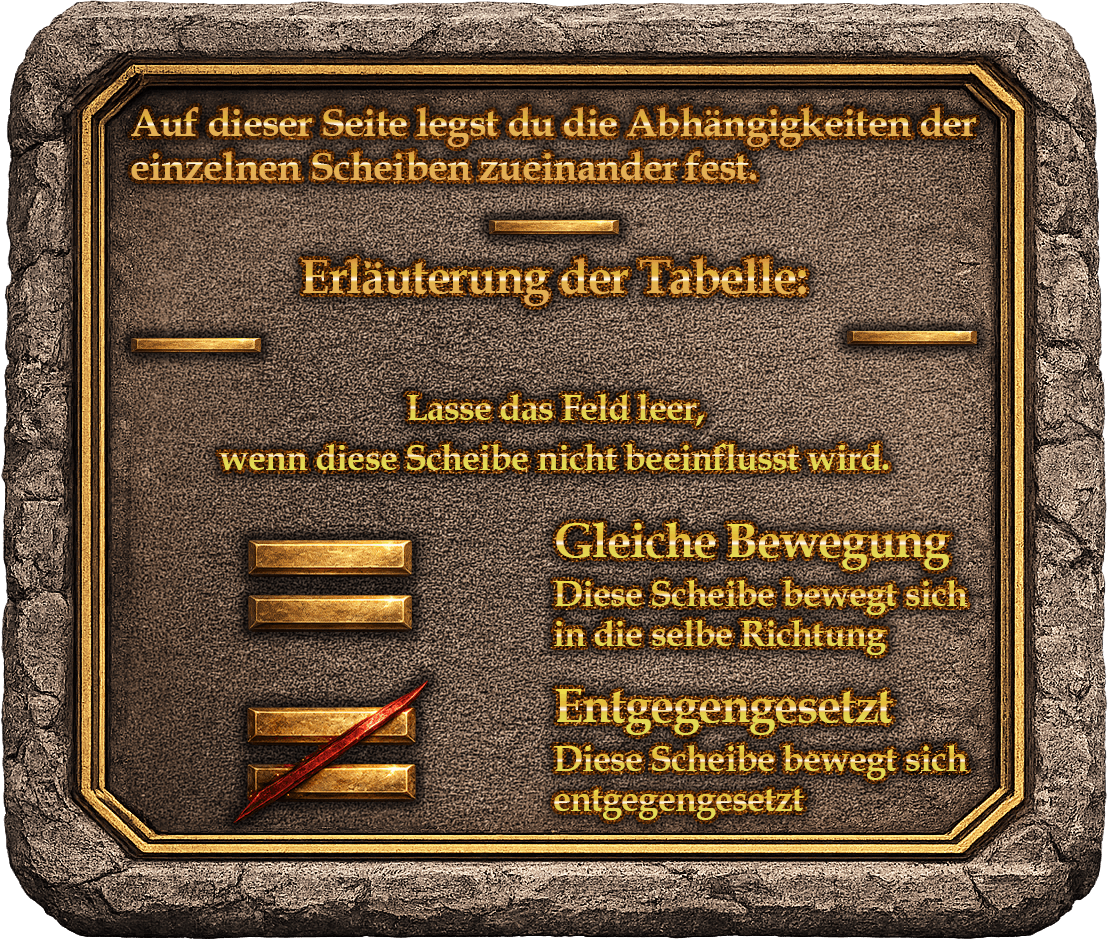
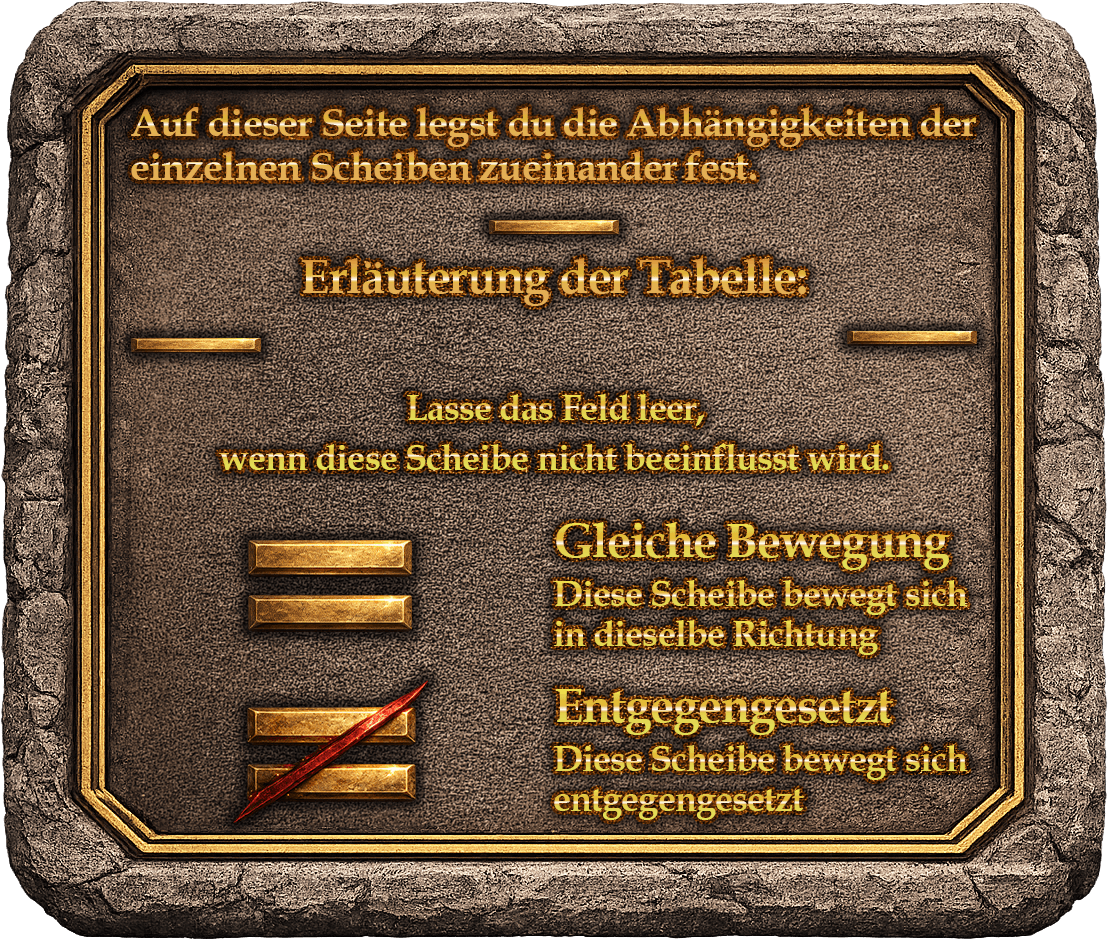
Add files via upload

Changed region(s): [[0.583, 0.6479, 0.8285, 0.7096]]

diff --git a/index.html b/index.html
@@ -70,7 +70,7 @@ body,select,option,span,label,div,p,td,th{color:#ddd;}
 .minus{box-shadow:0 0 12px rgba(255,80,80,.5)}
 
 
-.stepCard{border:1px solid #6a4a22;background:linear-gradient(#222831,#1a1f25);padding:16px;border-radius:10px;box-shadow:0 0 14px rgba(255,180,92,.25);margin-bottom:12px}
+.stepCard{border:none;background:transparent;padding:8px;border-radius:10px;box-shadow:none;margin-bottom:12px}
 .hintPolish{background:linear-gradient(#1b2027,#15191e)!important;box-shadow:0 0 12px rgba(255,180,92,.15)}
 
 
@@ -524,7 +524,7 @@ text-shadow:0 0 12px rgba(255,180,92,.35);
 
 
 .step-slider-img{
-  width:90px;
+  width:135px;
   height:auto;
   display:block;
   margin:0 auto 14px auto;
@@ -602,6 +602,15 @@ drop-shadow(0 0 24px rgba(255,180,92,.45));
 .positionStoneReadOnly:hover{
     transform:none !important;
     opacity:inherit !important;
+}
+
+@keyframes stepPulse{
+  0%{transform:scale(1);filter:drop-shadow(0 0 12px rgba(255,180,92,.65)) drop-shadow(0 0 24px rgba(255,180,92,.35));}
+  50%{transform:scale(1.08);filter:drop-shadow(0 0 20px rgba(255,180,92,.95)) drop-shadow(0 0 40px rgba(255,180,92,.60));}
+  100%{transform:scale(1);filter:drop-shadow(0 0 12px rgba(255,180,92,.65)) drop-shadow(0 0 24px rgba(255,180,92,.35));}
+}
+.stepPulse{
+  animation:stepPulse 1.8s ease-in-out infinite;
 }
 
 </style>
@@ -695,22 +704,18 @@ drop-shadow(0 0 24px rgba(255,180,92,.45));
          alt="Schieber-Abhängigkeiten"
          class="title-board">
 </div>
-<p>Wenn ein Schieber (Zeile) bewegt wird,<br>legt die Matrix fest, wie sich die anderen Schieber (Spalten) verhalten.</p>
-
-<div class="panel" style="margin:10px 0">
-<b>⚪ Keine Verbindung</b><br>Der andere Schieber bleibt unbeeinflusst.<br><br>
-<b>🟢 Gleiche Bewegung</b><br>Der andere Schieber bewegt sich in dieselbe Richtung.<br><br>
-<b>🔴 Entgegengesetzte Bewegung</b><br>Der andere Schieber bewegt sich in die entgegengesetzte Richtung.
+<div style="text-align:center;margin:10px 0 18px 0;">
+<img src="Matrix-Info-1.png"
+     alt="Matrix Erklärung"
+     style="width:70%;max-width:770px;height:auto;filter:drop-shadow(0 0 12px rgba(255,180,92,.35));">
 </div>
 
 <div class="ornament-divider small-divider"></div>
 
-<div class="panel" style="margin:10px 0">
-<b>Beispiele</b><br><br>
-⚔1 → 🔗2 🟢<br>
-= Beide bewegen sich in dieselbe Richtung.<br><br>
-⚔1 → 🔗3 🔴<br>
-= Beide bewegen sich in entgegengesetzte Richtungen.
+<div style="text-align:center;margin:10px 0 18px 0;">
+<img src="Matrix-Info-2.png"
+     alt="Matrix Beispiele"
+     style="width:70%;max-width:770px;height:auto;filter:drop-shadow(0 0 12px rgba(255,180,92,.35));">
 </div>
 
 <div class="ornament-divider small-divider"></div>
@@ -1055,12 +1060,19 @@ function render(){
  if(idx<steps.length){
       let m=steps[idx].match(/^S(\d+)=(\d+)x([LR])$/);
       if(m){
-        step.innerHTML='<img src="S'+m[1]+'.png" class="step-slider-img" alt="S'+m[1]+'">';
-        document.getElementById('actionStep').textContent=(m[3]=='R'?'⬅ ':'➡ ')+m[2]+' Schritte '+(m[3]=='R'?'nach links':'nach rechts');
+        const dirImg = (m[3]=='R') ? 'Pfeil-Links.png' : 'Pfeil-Rechts.png';
+        const stepImg = 'Schritt-' + m[2] + '.png';
+        step.innerHTML =
+          '<img src="S'+m[1]+'.png" class="step-slider-img stepPulse" alt="S'+m[1]+'">' +
+          '<div style="display:flex;justify-content:center;align-items:center;gap:24px;margin-top:8px;">' +
+          '<img src="' + stepImg + '" style="width:220px;max-width:48%;height:auto;" class="stepPulse">' +
+          '<img src="' + dirImg + '" style="width:260px;max-width:58%;height:auto;" class="stepPulse">' +
+          '</div>';
+        document.getElementById('actionStep').textContent='';
       }
     }else{
-      step.innerHTML='🔓 Schloss geöffnet!';
-      document.getElementById('actionStep').textContent='Alle Schieber befinden sich in der Zielposition.';
+      step.innerHTML='<img src="Schloss-Offen(1).png" alt="Schloss geöffnet" style="width:320px;max-width:80%;height:auto;" class="stepPulse">';
+      document.getElementById('actionStep').textContent='';
     }
 
  let st=displayStates[Math.min(idx,displayStates.length-1)]||[];
